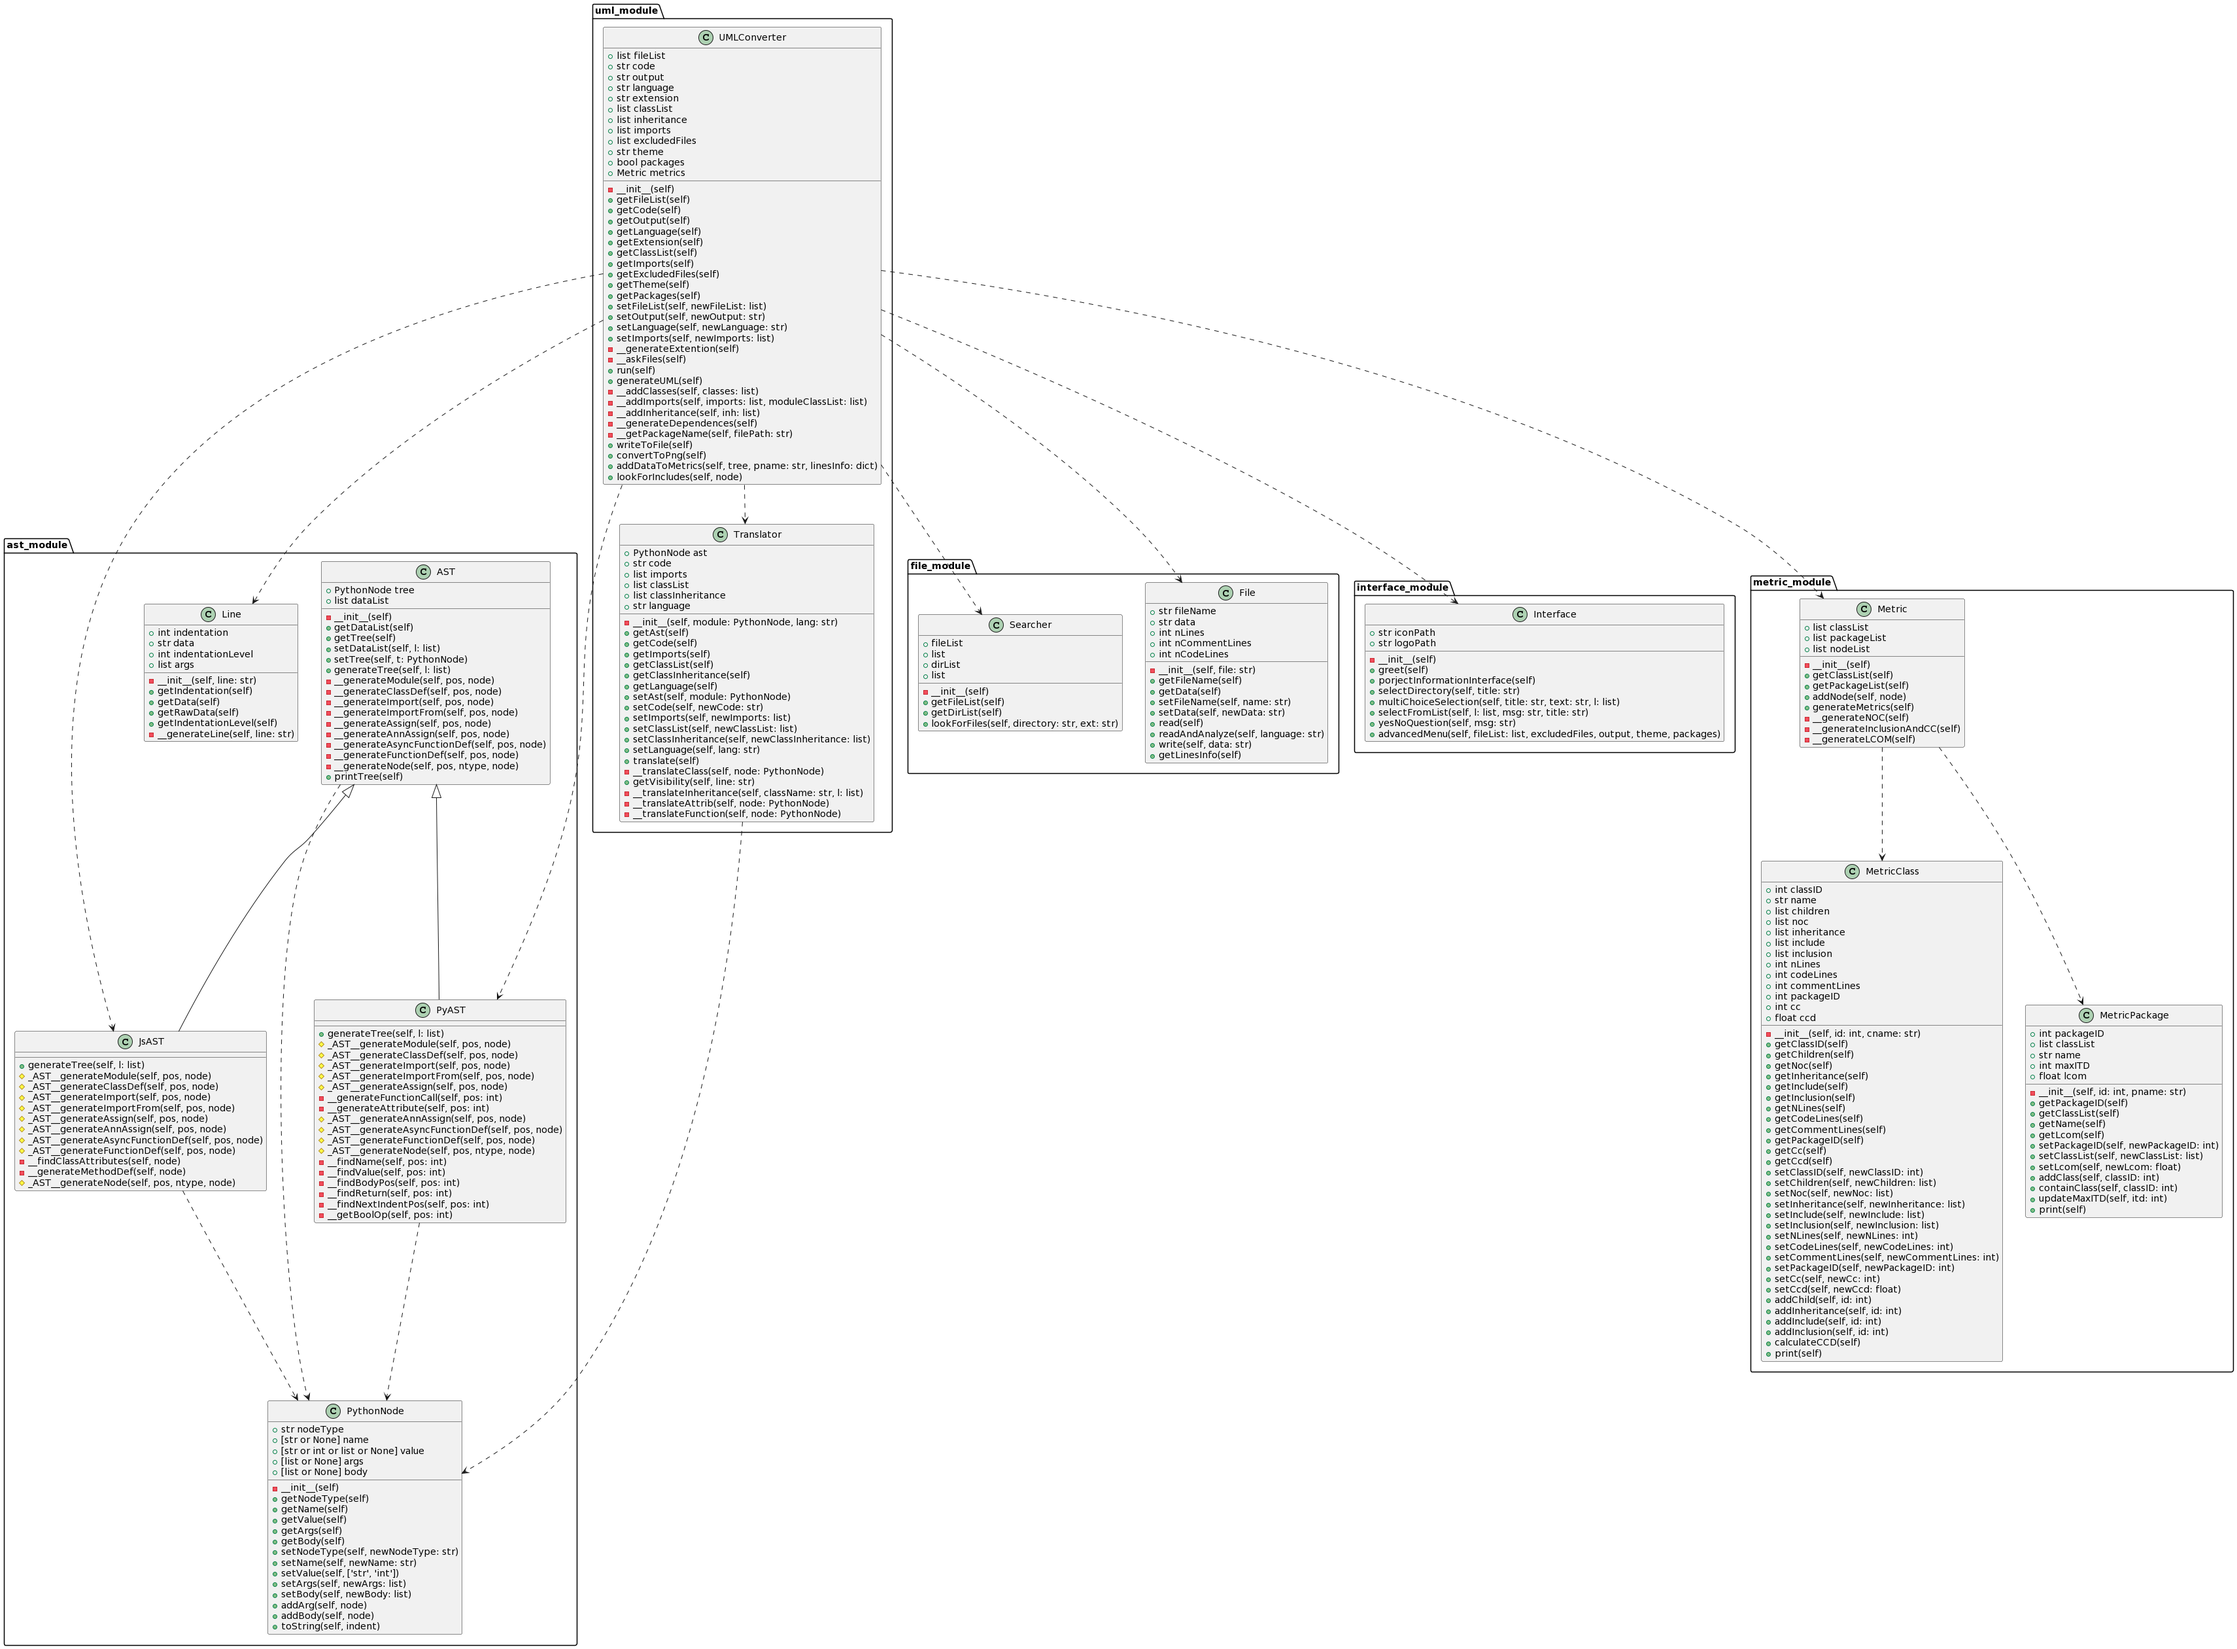
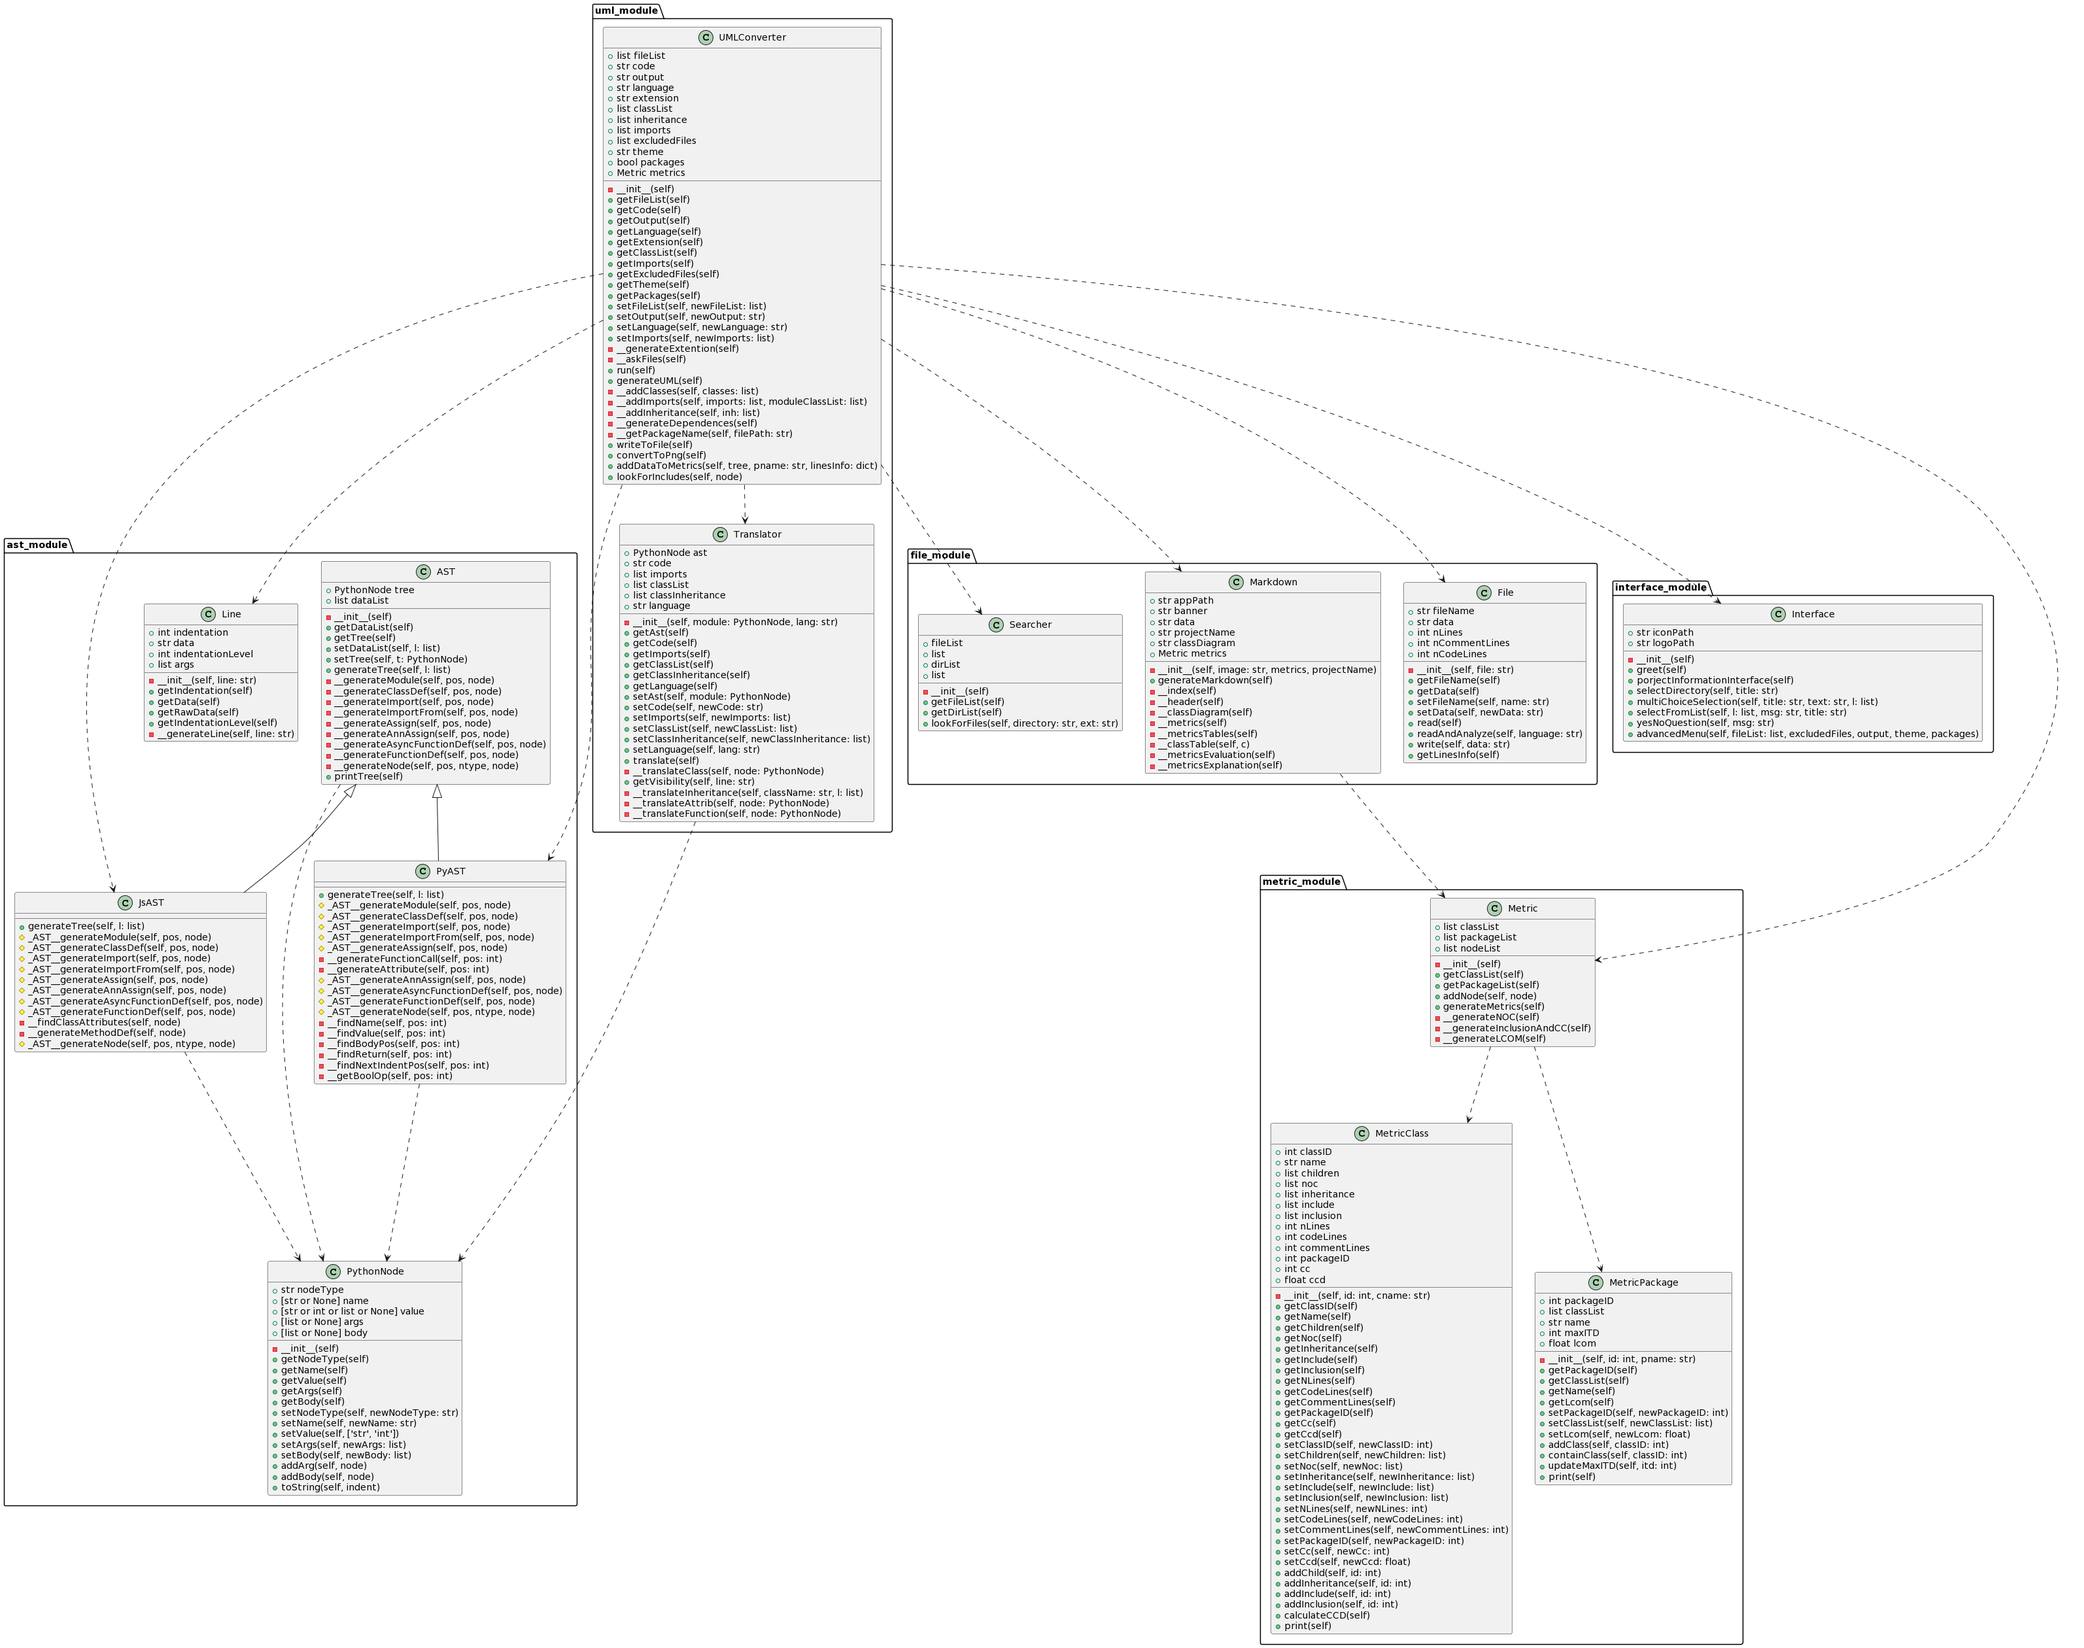
Started markdown solution

diff --git a/app/modules/file_module/markdown.py b/app/modules/file_module/markdown.py
@@ -1,0 +1,106 @@
+# -*- coding: utf-8 -*-
+#   @Proyect:            UMLConverter
+#   @Author:             Adrian Epifanio
+#   @File:               markdown.py
+#   @Author:             Adrian Epifanio
+#   @Date:               2023-02-08 12:10:41
+#   @Email:              adrianepi@gmail.com
+#   @GitHub:             https://github.com/AdrianEpi
+#   @Last Modified by:   Adrian Epifanio
+#   @Last Modified time: 2023-02-08 13:53:26
+#   @Description:        ...
+
+from app.modules.metric_module.metric import Metric
+
+import os
+import sys
+
+
+class Markdown():
+
+	appPath: str
+	banner: str
+	data: str
+	projectName: str
+	classDiagram: str
+	metrics: Metric
+
+
+	def __init__(self, image: str, metrics, projectName = "UMLConverter Project"):
+		self.appPath = os.path.realpath(__file__)
+		if ((sys.platform == 'win32') or (sys.platform == 'cygwin')): # Windows
+			self.banner = self.appPath + '\\img\\logo\\267x150.png'
+		else:	# Linux or MacOS
+			self.banner = self.appPath + '/img/logo/267x150.png'
+		self.data = ''
+		self.projectName = projectName
+		self.image = image
+		self.metrics = metrics
+
+	def generateMarkdown(self) -> str:
+		s = self.__header()
+		s += self.__index()
+		s += self.__metrics()
+		return s
+
+	def __index(self) -> str:
+		s = '\n## **Index**'
+		s += '\n---'
+		s += '\n1. [Class Diagram](#id1)'
+		s += '\n2. [Metrics](#id2)'
+		s += '\n3. [Metrics Tables](#id3)'
+		s += '\n4. [Metrics Evaluation](#id4)'
+		s += '\n5. [Metrics Explanation](#id5)'
+		s += '\n\n***\n\n'
+		return s
+
+	def __header(self) -> str:
+		s = '<img align="middle" width="100%" height="300" src="' + self.banner + '">'
+		s += "\n# " + self.projectName
+		return s
+
+	def __classDiagram(self) -> str:
+		s = '\n## Class Diagram<a name="id1"></a>\n'
+		s += '---'
+		s += '<img align="middle" width="100%" src="' + self.classImage + '">'
+		s += '\n\n***\n\n'
+		return s
+
+	def __metrics(self) -> str:
+		s = '\n## Metrics<a name="id2"></a>\n'
+		s += '---'
+		s += self.__metricsTables()
+		s += self.__metricsEvaluation()
+		s += self.__metricsExplanation()
+		s += '\n\n***\n\n'
+		return s
+
+	def __metricsTables(self) -> str:
+		s += '\n\n## Metric Tabless<a name="id3"></a>\n'
+		s += '\n#### Class Tables\n'
+		s += '\n| Name | Package | Children | NOC | CodeLines | CommentLines | CCD | CC | Evaluation|'
+		s += '\n| -- | -- | -- | -- | -- | -- | -- | -- | -- |'
+		for i in self.metrics.getClassList():
+			s += '\n| ' + str(i.getName())
+			s += ' | ' + str(self.metrics.getPackageList()[i.getPackageID()].getName())
+			s += ' | ' + str(len(i.getChildren()))
+			s += ' | ' + str(len(i.getNoc()))
+			s += ' | ' + str(i.getCodeLines())
+			s += ' | ' + str(i.getCommentLines())
+			s += ' | ' + str(i.getCcd())
+			s += ' | ' + str(i.getCc())
+			s += ' | ' + 'good' + ' |'
+			#s += ' | ' + str(i.getEval()) + ' |'
+		return s
+		
+
+
+
+
+
+	def __metricsEvaluation(self) -> str:
+		return ""
+
+
+	def __metricsExplanation(self) -> str:
+		return ""

diff --git a/app/modules/metric_module/metric.py b/app/modules/metric_module/metric.py
@@ -7,7 +7,7 @@
 #   @Email:              adrianepi@gmail.com
 #   @GitHub:             https://github.com/AdrianEpi
 #   @Last Modified by:   Adrian Epifanio
-#   @Last Modified time: 2023-02-08 12:00:18
+#   @Last Modified time: 2023-02-08 13:43:41
 #   @Description:        ...
 
 from app.modules.metric_module.metricClass import MetricClass
@@ -87,7 +87,8 @@ class Metric:
 		self.__generateNOC()
 		self.__generateInclusionAndCC()
 		self.__generateLCOM()
-
+		for i in range(len(self.classList)):
+			self.classList[i].calculateCCD()
 
 
 	def __generateNOC(self):
@@ -132,8 +133,6 @@ class Metric:
 			ce = []
 			ca = []
 			for j in i.getClassList():
-				# print('entra')
-				# print(i.getClassInclusion())
 				for k in self.classList[j].getInclusion():
 					if (self.classList[k].getClassID() not in i.getClassList()) and (self.classList[k].getClassID() not in ce):
 						ce.append(self.classList[k].getClassID())
@@ -144,7 +143,6 @@ class Metric:
 						
 			ca = len(ca)
 			ce = len(ce)
-			print('package' + str(i.getPackageName()) + ' ce: ' + str(ce) + " ca: " + str(ca))
 			lcom = float(ce / (ca + ce))
 			self.packageList[i.getPackageID()].setLcom(lcom)
 

diff --git a/app/modules/uml_module/UMLConverter.py b/app/modules/uml_module/UMLConverter.py
@@ -7,12 +7,13 @@
 #   @Email:              adrianepi@gmail.com
 #   @GitHub:             https://github.com/AdrianEpi
 #   @Last Modified by:   Adrian Epifanio
-#   @Last Modified time: 2023-02-08 11:57:23
+#   @Last Modified time: 2023-02-08 13:34:34
 #   @Description:        This file describes the UMLConverteer main class
 
 from app.modules.uml_module.translator import Translator
 from app.modules.file_module.file import File
 from app.modules.file_module.searcher import Searcher
+from app.modules.file_module.markdown import Markdown
 from app.modules.ast_module.line import Line
 from app.modules.ast_module.pyAST import PyAST
 from app.modules.ast_module.jsAST import JsAST
@@ -257,8 +258,10 @@ class UMLConverter:
 		self.metrics.generateMetrics()
 		# for i in self.metrics.getClassList():
 		# 	i.print()
-		for i in self.metrics.getPackageList():
-			i.print()
+		# for i in self.metrics.getPackageList():
+		# 	i.print()
+		md = Markdown(image = "", metrics = self.metrics, projectName = "EXAMPLE")
+		print(md.generateMarkdown())
 
 
 	def generateUML(self):

diff --git a/app/modules/metric_module/metricClass.py b/app/modules/metric_module/metricClass.py
@@ -7,7 +7,7 @@
 #   @Email:              adrianepi@gmail.com
 #   @GitHub:             https://github.com/AdrianEpi
 #   @Last Modified by:   Adrian Epifanio
-#   @Last Modified time: 2023-02-08 11:47:31
+#   @Last Modified time: 2023-02-08 13:45:09
 #   @Description:        ...
 
 
@@ -47,7 +47,11 @@ class MetricClass:
 	def getClassID(self) -> int:
 		return 	self.classID
 
+
+	def getName(self) -> str:
+		return self.name
 	
+
 	def getChildren(self) -> list:
 		return 	self.children
 
@@ -161,7 +165,7 @@ class MetricClass:
 
 
 	def calculateCCD(self) -> int:
-		self.ccd = self.commentLines / self.codeLines
+		self.ccd = round((self.commentLines / self.codeLines), 2)
 		return self.ccd
 
 
